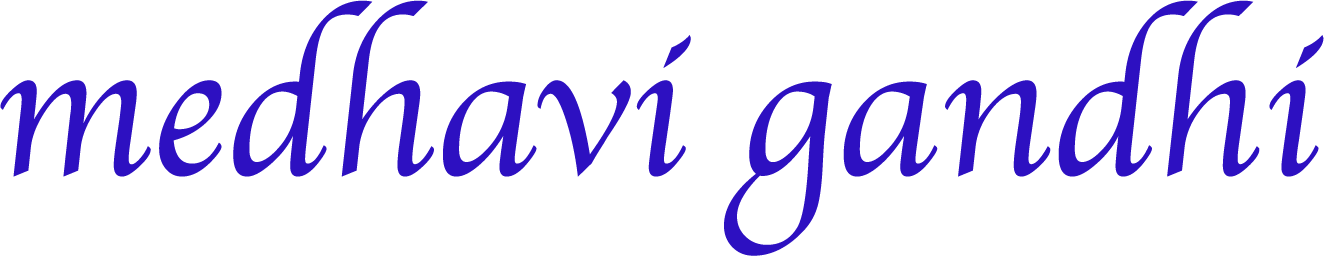
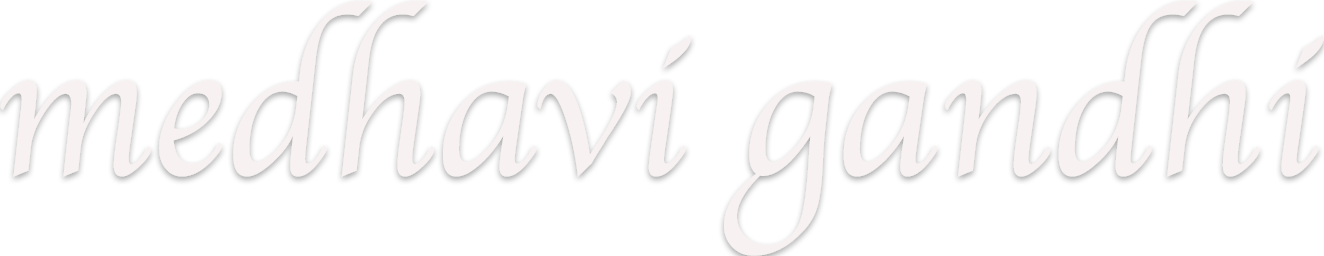
adding stuff

diff --git a/index.html b/index.html
@@ -10,7 +10,7 @@
 </head>
 <body>
   <div class="navbar fixed-top">
-        <img src="medhavi.png" border="0" width=200px id="logo">
+        <a href="index.html" class="navbar-left" img src="medhavi.png" border="0" width=20px id="logo"></a>
         <ul>
             <li><a href="#">About</a></li>
             <li><a href="#">Resume</a></li>
